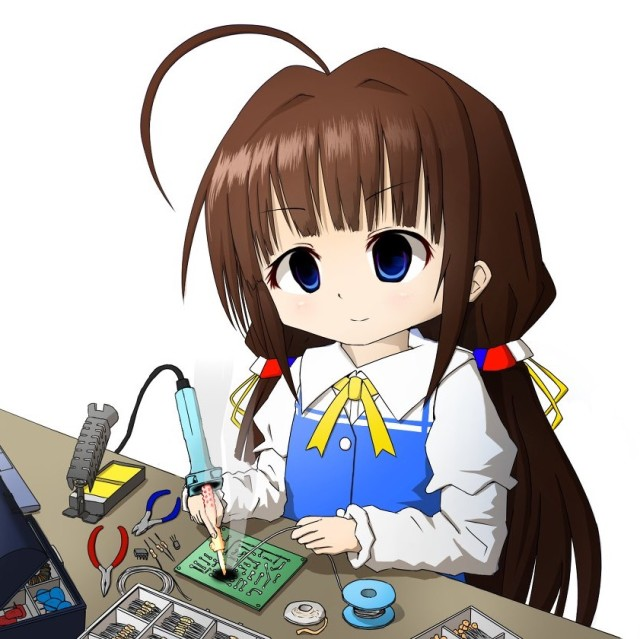
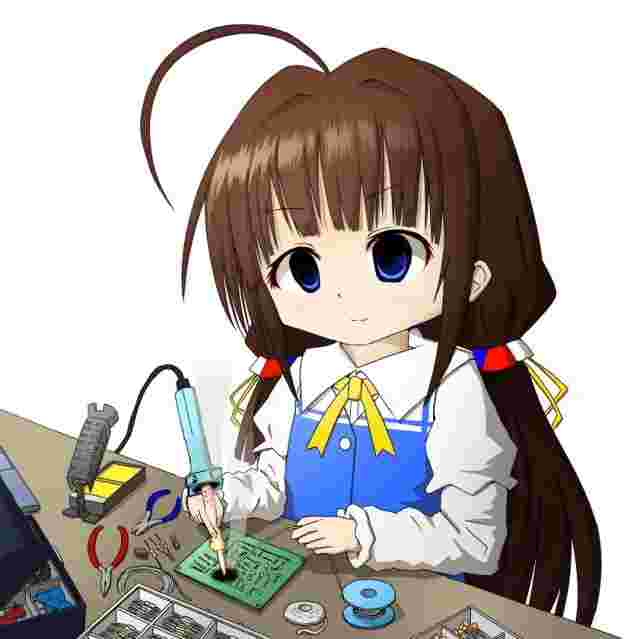
loveit config picture

diff --git a/first-post/index.html b/first-post/index.html
@@ -115,7 +115,7 @@
                 </div>
                 <div class="details-content toc-content" id="toc-content-static"><nav id="TableOfContents"></nav></div>
             </div><div class="content" id="content"><figure>
-    <img src="/comics_16.png"/> 
+    <img src="/head.png"/> 
 </figure>
 
 <p>Welcome!</p>
